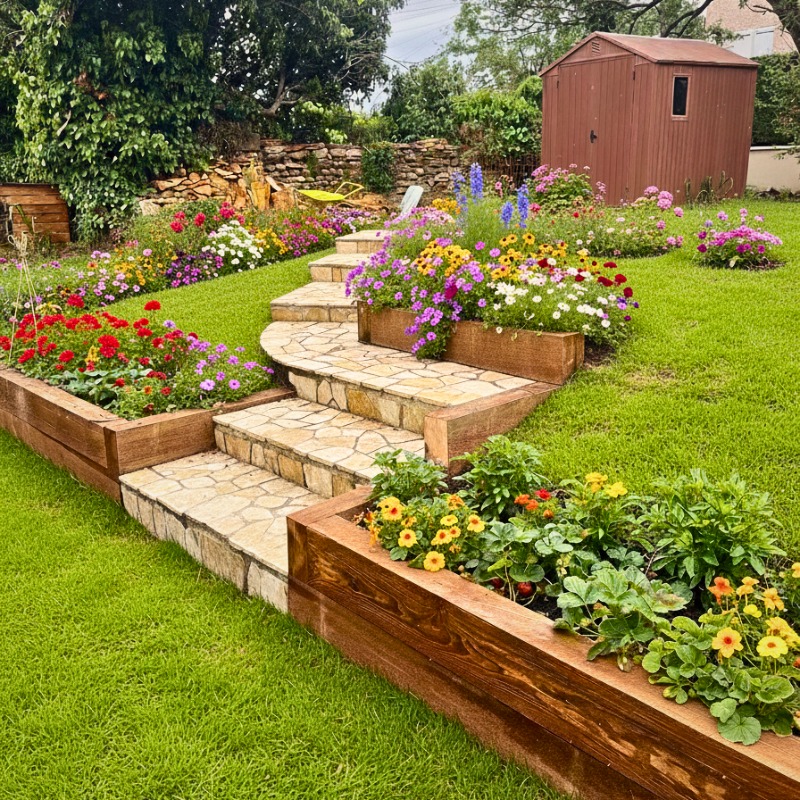
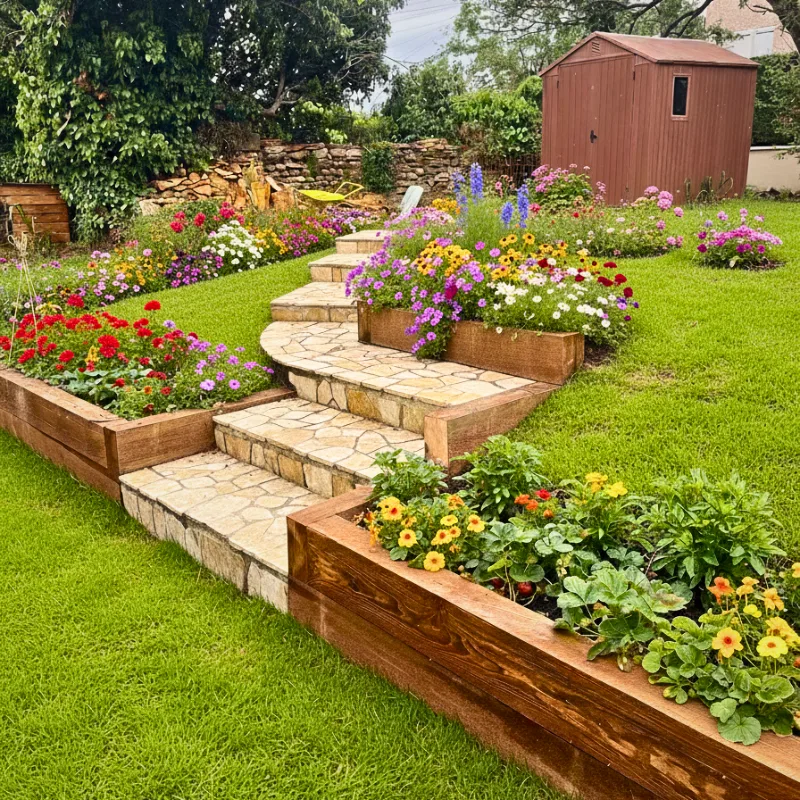
Optimize projet-7 image & enable smooth touch scroll on mobile
Compress projet-7.webp from 1.15MB to 237KB (strip metadata, quality 82)
to fix image not loading on mobile. Enable Lenis syncTouch for fluid
touch scrolling on smartphones.

diff --git a/src/components/SmoothScroll.tsx b/src/components/SmoothScroll.tsx
@@ -13,6 +13,8 @@ export default function SmoothScroll() {
       duration: 1.2,
       easing: (t: number) => Math.min(1, 1.001 - Math.pow(2, -10 * t)),
       smoothWheel: true,
+      syncTouch: true,
+      syncTouchLerp: 0.06,
     });
     lenisRef.current = lenis;
 
